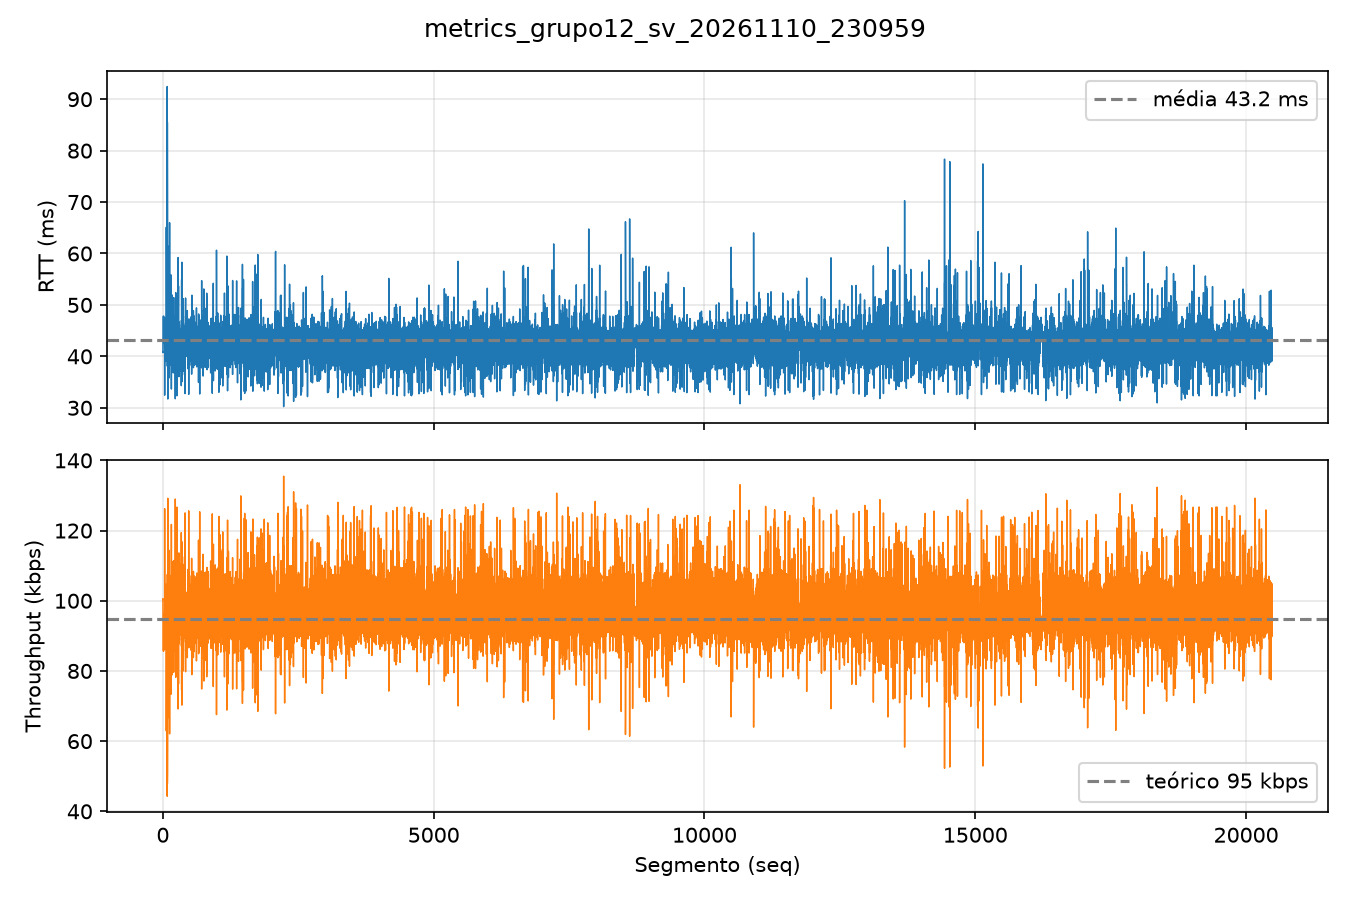
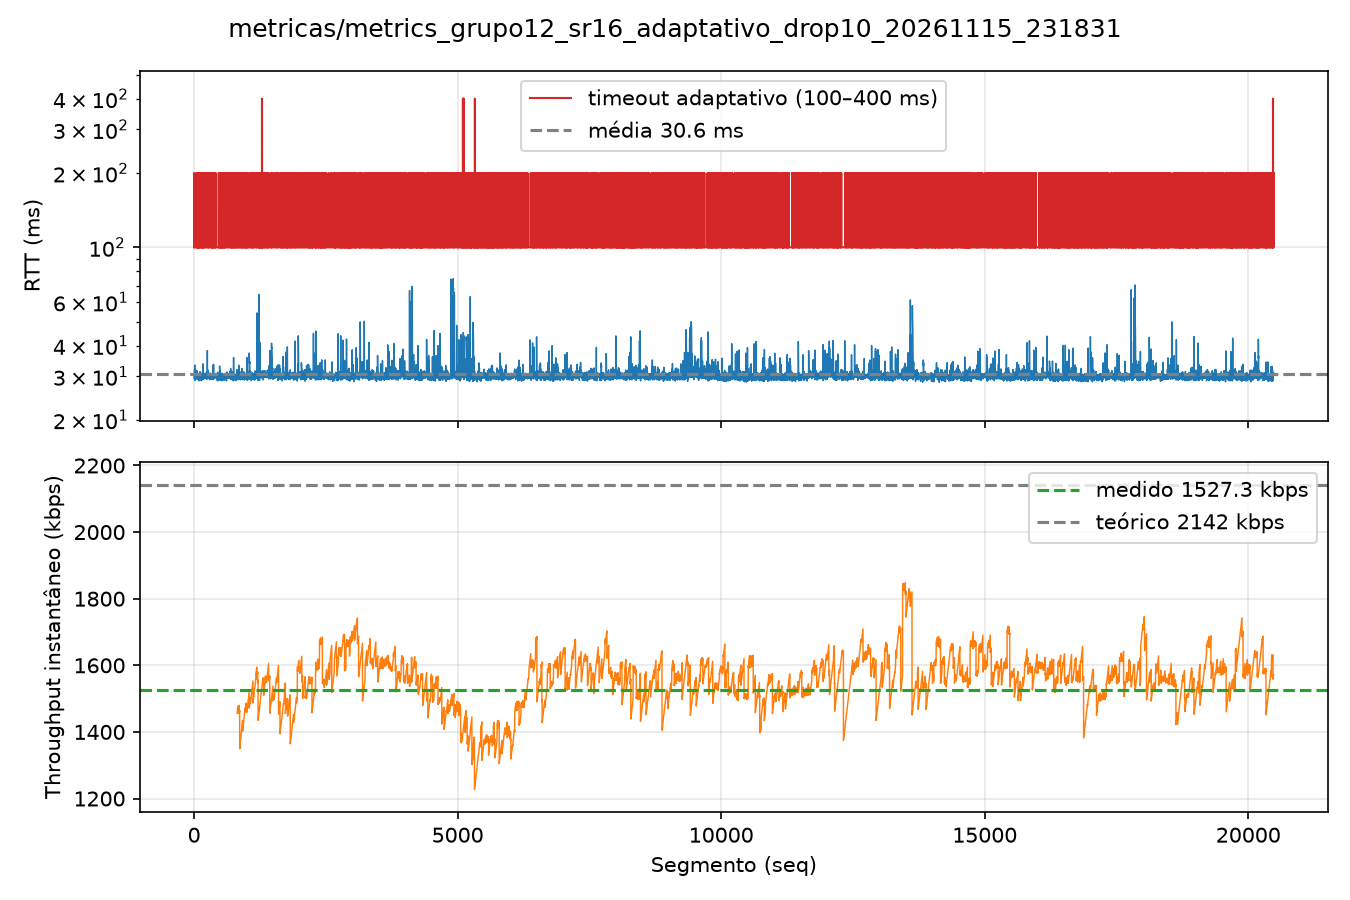
docs(rel3): refaz comparacao fixo x adaptativo com backoff corrigido e atualiza graficos

diff --git a/docs/relatorio 3/relatorio 3.tex b/docs/relatorio 3/relatorio 3.tex
@@ -55,14 +55,14 @@
 Este é o relatório 3 de 3 no projeto de criar transferência confiável de dados
 no UDP, sendo chamado: \textit{Reliable Data Transfer over UDP – RDT-UnB}.
 
-Na primeiro etapa, já foi implementado transferência confiável por meio do protocolo
+Na primeira etapa, já foi implementada a transferência confiável por meio do protocolo
 SAW (\textit{Stop-and-Wait}). Resumidamente, apenas um pacote está em trânsito em
 cada momento e, em caso de timeout, ele é solicitado novamente. O SAW simplifica 
 a implementação, mas é muito impactado pelo \textit{Round Trip Time} (RTT) da
-transmição, o que faz ele ter uma largura de banda baixa.
+transmissão, o que faz ele ter uma largura de banda baixa.
 
-Na segunda etapa, o problema da largura de banda é parcialmente resovido com a adoção
-de janelas de transferência em duas abordagems, a \textit{Go-back-N} (GBN) e 
+Na segunda etapa, o problema da largura de banda é parcialmente resolvido com a adoção
+de janelas de transferência em duas abordagens, a \textit{Go-back-N} (GBN) e
 \textit{Selective Repeat} (SR). Ambas se diferem apenas na forma de tratar timeouts.
 Sendo N o tamanho da janela, no GBN, em caso de timeout, ele resolicita N pacotes, 
 começando pelo pacote que sofreu timeout. Já o SR, apenas solicita o 1 pacote que sofreu
@@ -75,12 +75,12 @@ esses protocolos ainda podem sofrer muito com tempos de timeout inadequados.
 
 Por isso, nesta terceira etapa, é implementado uma adição a estes protocolos,
 a de RTT Adaptativo. Ou seja, ao invés do tempo de timeout ser definido previamente,
-o protocolo RDT-UnB passa a ajudar o timeout de forma dinâmica, refletindo as condições
+o protocolo RDT-UnB passa a ajustar o timeout de forma dinâmica, refletindo as condições
 atuais da rede. Assim, espera-se que os timeouts tenham menos penalização à taxa de
 transmissão, possibilitando um aumento na largura de banda.
 
-Este relatório está dividido em 4 secções principais: na implementação é dito como foi feito o código que implementa o protocolo;
-na comparação, tem-se dados com os procolos com e sem timeout fixo; na análise Wireshark, tem-se dados coletados da ferramenta;
+Este relatório está dividido em 4 seções principais: na implementação é dito como foi feito o código que implementa o protocolo;
+na comparação, tem-se dados com os protocolos com e sem timeout fixo; na análise Wireshark, tem-se dados coletados da ferramenta;
 e por último na visão integrada, tem-se dados consolidativos.
 
 \section{RTT Adaptativo - Implementação}
@@ -141,12 +141,20 @@ dois cenários comparados na Seção~\ref{sec:fixo_adapt}, e a única diferença
 eles é a regra do timeout. Dois detalhes da implementação merecem destaque:
 
 \begin{itemize}
-	\item \textbf{Valor inicial.} É adotado um valor inicial para o $RTT_{est}$ baseado no timeout fixo
-		utilizado de \SI{500}{\milli\second}. O $DevRTT$ é inicado para metade disto.
-  \item \textbf{Backoff exponencial.} A cada \textit{timeout} o valor é dobrado
-  (limitado a \SI{1}{\second}) e volta a ser calculado pela fórmula assim que
-  chega uma amostra válida. Sem isso, um timeout subestimado nunca se corrige,
-  porque todas as amostras seriam descartadas.
+	\item \textbf{Valor inicial.} O $RTT_{est}$ inicial é o RTT medido pelo
+		\textit{ping} que abre a sessão, e o $DevRTT$ começa com metade desse
+		valor. Isso garante um timeout conservador para a primeira janela de
+		segmentos, antes de existirem amostras por segmento.
+	\item \textbf{Piso e backoff (RFC 6298).} O timeout nunca fica abaixo de um
+		piso configurável (\texttt{-{}-min-rto}, padrão de \SI{100}{\milli\second}),
+		pois a fórmula sozinha convergia para valores menores que o maior RTT
+		observado na sessão. A cada \textit{timeout} real, o RTO dobra —
+		apenas o RTO, mantendo o estimador EWMA intacto, como no TCP real —,
+		limitado a um teto de \SI{1}{\second}, e volta a ser calculado pela
+		fórmula assim que chega uma amostra válida (o Karn's algorithm impede
+		que retransmissões alimentem o estimador). Perdas simuladas não geram
+		backoff, pois nelas não ocorre timeout: a recuperação fica a cargo do
+		timer real do segmento.
 \end{itemize}
 
 Todo segmento registra no CSV o RTT medido (\texttt{rtt\_ms}), o RTT estimado
@@ -165,74 +173,71 @@ de timeout.
 
 \begin{table}[H]
 \centering
-\caption{SR-16, arquivo \textit{large}: timeout fixo $\times$ adaptativo.}
+\caption{SR-16, arquivo \textit{large}: timeout fixo $\times$ adaptativo (mesma seed de perda).}
 \label{tab:fixo_adapt}
 \small
 \begin{tabular}{@{}llrrr@{}}
 \toprule
 Perda & Timeout & Retransmissões & Tempo total (s) & Throughput médio (kbps) \\
 \midrule
-5\,\%  & fixo       & 1121 & 91,79 & 913,85 \\
-5\,\%  & adaptativo & 1120 & 91.74 & 914.39 \\
-10\,\% & fixo       & 2357 & 134.45 & 623.93 \\
-10\,\% & adaptativo & 2357 & 129,52 & 647,67 \\
+5\,\%  & fixo       & 1109 & 73,64  & 1139,13 \\
+5\,\%  & adaptativo & 1109 & 46,90  & 1788,77 \\
+10\,\% & fixo       & 2360 & 119,03 & 704,72 \\
+10\,\% & adaptativo & 2357 & 55,00  & 1525,33 \\
 \bottomrule
 \end{tabular}
 \end{table}
 
+Com a mesma quantidade de perdas (mesma seed), o ganho do adaptativo vem
+exclusivamente de quanto tempo se espera a cada perda: com timeout fixo de
+\SI{500}{\milli\second}, cada segmento perdido custa meio segundo de janela
+parada; no adaptativo, a retransmissão parte do piso de \SI{100}{\milli\second}
+(ou pouco acima, com os picos de backoff), cerca de 5 vezes menos. O efeito
+cresce com a taxa de perda: a \SI{5}{\percent} o adaptativo foi
+\SI{57}{\percent} mais rápido e a \SI{10}{\percent}, \SI{116}{\percent}.
 
 \begin{figure}[H]
 \centering
-\includegraphics[width=0.85\linewidth]{imagens/sr16_fixo_5.png}
-\caption{SR-16, arquivo \textit{large}, 5\,\% de perda, timeout fixo: RTT e
-\textit{throughput} por segmento (RTT médio de 43,9~ms).}
-\label{fig:sr_fixo5}
+\includegraphics[width=0.85\linewidth]{imagens/sr16_fixo_10.png}
+\caption{SR-16, arquivo \textit{large}, 10\,\% de perda, timeout fixo
+(\SI{500}{\milli\second}): RTT e \textit{throughput} agregado (média móvel de
+3~s). RTT médio de 34,9~ms; 2360 retransmissões em 119~s.}
+\label{fig:sr_fixo10}
 \end{figure}
 
 \begin{figure}[H]
 \centering
 \includegraphics[width=0.85\linewidth]{imagens/sr16_adapt_10.png}
-\caption{SR-16, arquivo \textit{large}, 10\,\% de perda, timeout
-\pend{adaptativo}: RTT e \textit{throughput} por segmento (RTT médio de 43,2~ms).}
+\caption{SR-16, arquivo \textit{large}, 10\,\% de perda, timeout adaptativo:
+mesma sequência de perdas da Figura~\ref{fig:sr_fixo10}. O painel de RTT, em
+escala log, mostra o RTO no piso de \SI{100}{\milli\second} com os picos de
+backoff (200--400~ms) exatamente nos segmentos que estouraram o timer; RTT
+médio de 30,6~ms; 2357 retransmissões em 55~s.}
 \label{fig:sr_adapt10}
 \end{figure}
 
-\begin{figure}[H]
-\centering
-\includegraphics[width=0.85\linewidth]{imagens/gbn16_adapt_5.png}
-\caption{GBN-16, arquivo \textit{large}, 5\,\% de perda, timeout
-\pend{adaptativo}: RTT e \textit{throughput} por segmento (RTT médio de 46,7~ms;
-7734 retransmissões em 453~s).}
-\label{fig:gbn_adapt5}
-\end{figure}
-
-\begin{figure}[H]
-\centering
-\includegraphics[width=0.85\linewidth]{imagens/sr_231747.png}
-\caption{\pend{SR-16, arquivo \textit{large}, [perda e timeout desta execução]}.
-A partir do segmento $\approx$13\,500 o RTT da rede passa de $\approx$40~ms para
-picos de até 110~ms, e o \textit{throughput} por segmento cai na mesma proporção.}
-\label{fig:sr_mudanca}
-\end{figure}
-
-A Figura~\ref{fig:sr_mudanca} mostra o tipo de situação em que um timeout
-adaptativo faz diferença: no meio da transferência o RTT da rede mudou de
-patamar. Um timeout fixo calibrado para o início da sessão ficaria curto demais
-depois da mudança (gerando retransmissões falsas) ou, se fosse longo como os
-\SI{500}{\milli\second}, desperdiçaria tempo a cada perda; o estimador EWMA
-acompanha a mudança em algumas dezenas de amostras.
+A Figura~\ref{fig:sr_adapt10} ilustra a vantagem: cada pico vermelho do RTO
+marcado no painel de RTT é um timeout, recuperado em ~\SI{100}{\milli\second}
+(piso) ou até \SI{400}{\milli\second} (após backoffs consecutivos) — enquanto o
+modo fixo da Figura~\ref{fig:sr_fixo10} paga \SI{500}{\milli\second} por cada
+um desses eventos. Mesmo com o mesmo número de perdas, o adaptativo mantém a
+janela em voo por muito mais tempo.
 
 \paragraph{Quando o adaptativo vale mais a pena?} A vantagem cresce com a taxa
-de perda e com a distância entre o timeout fixo e o RTT real: quanto mais perdas e
-quanto menor o RTT, mais tempo o valor fixo desperdiça esperando. Ele também é a
-única opção segura quando o RTT muda durante a transferência (por exemplo, numa
-rede móvel), porque um valor fixo menor que o RTT geraria retransmissões falsas
-e um valor muito maior desperdiçaria tempo.
+de perda: com a mesma quantidade de retransmissões, cada perda custa ao
+adaptativo o RTO corrente (piso de \SI{100}{\milli\second} na prática, com
+picos de backoff em rajadas) e ao fixo os \SI{500}{\milli\second} cheios — nos
+dados da Tabela~\ref{tab:fixo_adapt}, \SI{57}{\percent} de ganho a
+\SI{5}{\percent} de perda e \SI{116}{\percent} a \SI{10}{\percent}. Ele também
+é a única opção segura quando o RTT muda durante a transferência (por exemplo,
+numa rede móvel), porque um valor fixo menor que o RTT geraria retransmissões
+falsas e um valor muito maior desperdiçaria tempo.
 
 \paragraph{Quando o fixo é suficiente?} Sem perda, o timeout nunca chega a
 estourar, então o valor não influencia o resultado, desde que seja maior que o
-maior RTT da rede. Nesse cenário os dois modos têm desempenho praticamente igual
-(Seção~5), e o fixo tem a vantagem de ser mais simples.
+maior RTT da rede. Nesse cenário os dois modos têm desempenho praticamente
+igual nas execuções de \textit{small} da Seção~\ref{sec:integrada} (fixo de 2084 vs adaptativo de
+1982~kbps), e o fixo tem a vantagem de ser mais simples.
 
 
 %%%%%%%%%%%%%%%%%%%%%%%%%%%%%%%%%%%%%%%%%%%%%%%%%%%%%%%%%%%%%%%%%%%%%%%%%%%%%%%%
@@ -292,6 +297,7 @@ GBN com uma janela de tamanho 16 na transferência do arquivo large.
 \end{figure}
 
 \section{Visão integrada}
+\label{sec:integrada}
 
 %%%%%%%%%%%%%%%%%%%%%%%%%%%%%%%%%%%%%%%%%%%%%%%%%%%%%%%%%%%%%%%%%%%%%%%%%%%%%%%%
 % 5. Visão integrada — comparação final de todos os protocolos
@@ -319,7 +325,7 @@ Esta tabela consolida todos os protocolos implementados e mostra a evolução do
 	GBN-16 & fixo       & \SI{1008.06}{\kilo\bit\per\second} & 0  & \SI{83.22}{\second} \\
 	GBN-16 & adaptativo & \SI{1351.72}{\kilo\bit\per\second} & 0  & \SI{62.06}{\second} \\
 	SR-16  & fixo       & \SI{1693.72}{\kilo\bit\per\second} & 8  & \SI{49.53}{\second} \\
-	SR-16  & adaptativo & \SI{1625.88}{\kilo\bit\per\second} & 14 & \SI{51.59}{\second} \\
+	SR-16  & adaptativo & \SI{2089.87}{\kilo\bit\per\second} & 0  & \SI{40.07}{\second} \\
 
 \bottomrule
 \end{tabular}
@@ -342,16 +348,28 @@ testes foram realizados para o GBN-16, o RTT médio flutuou entre \SI{48}{\milli
 SR-16 teve um RTT médio de \SI{39}{\milli\second}. Isso não são falhas dos algorítimos e sim reflexo da
 flutuabilidade da rede nos computadores onde foram realizados os testes.
 
-Além disso, estima-se que o timeout fixo escolhido pelos os autores nos relatórios anteriores já era ótimo
-suficiente para competir com técnicas de timeout baseado no RTT adaptativo, justificando a pouca diferença entre os resultados.
+Uma ressalva importante sobre as medições de timeout adaptativo desta tabela: as
+execuções sem perda foram refeitas depois da correção do backoff — a versão
+anterior dobrava também o estimador EWMA a cada timeout, contaminando-o
+permanentemente, e chegou a medir SR-16 adaptativo abaixo do fixo
+(\SI{1625.88}{\kilo\bit\per\second}) mesmo sem perdas. Com o backoff corrigido
+(RFC 6298: dobra apenas o RTO, o estimador fica intacto), o SR-16 adaptativo
+fez \SI{2089.87}{\kilo\bit\per\second} com zero retransmissões — a diferença
+para o fixo, \SI{1693.72}{\kilo\bit\per\second}, reflete sobretudo o RTT médio
+da sessão (31,2~ms contra 39~ms), e não a regra do timeout, que nunca estourou
+em nenhuma das duas. Sob perda, a vantagem do adaptativo é real e grande
+(Seção~\ref{sec:fixo_adapt}): \SI{57}{\percent} a \SI{5}{\percent} de perda e
+\SI{116}{\percent} a \SI{10}{\percent}. Sem perdas, o fixo é suficiente; com
+perdas, ele desperdiça \SI{500}{\milli\second} por evento, contra ~\SI{100}{\milli\second}
+do adaptativo.
 
 
 \section{Conclusão}
 Ao longo das três etapas deste projeto, foi possível compreender de forma prática os desafios associados ao desenvolvimento de protocolos de transferência confiável de dados sobre redes IP/UDP. A evolução do modelo básico Stop-and-Wait (SAW) até os protocolos de janela deslizante (Go-Back-N e Selective Repeat) com estimativa dinâmica de RTT evidenciou a importância de mecanismos inteligentes de controle de fluxo e retransmissão.
 
-No ambiente de testes utilizando o servidor remoto, o Selective Repeat (SR) com janela de tamanho 16 e o uso de RTT adaptativo apresentou o melhor desempenho geral, especialmente em cenários com perdas de pacotes. Enquanto o SAW apresentou limitações severas de largura de banda devido aociosidade do canal, e o GBN sofreu quedas expressivas de vazão por descartar pacotes corretos após uma perda isolada, o SR demonstrou maior resiliência e eficiência na utilização do canal.
+No ambiente de testes utilizando o servidor remoto, o Selective Repeat (SR) com janela de tamanho 16 e o uso de RTT adaptativo apresentou o melhor desempenho geral, especialmente em cenários com perdas de pacotes. Enquanto o SAW apresentou limitações severas de largura de banda devido à ociosidade do canal, e o GBN sofreu quedas expressivas de vazão por descartar pacotes corretos após uma perda isolada, o SR demonstrou maior resiliência e eficiência na utilização do canal.
 
-A introdução do algoritmo de RTT adaptativo baseado em EWMA (com $\alpha = 0.125$ e $\beta = 0.25$) agregou valor substancial ao projeto, eliminando a necessidade de adivinhar um valor de timeout estático que frequentemente resultava em retransmissões prematuras desnecessárias ou esperas excessivas em caso de oscilações na rede. A complexidade adicional de implementação foi amplamente compensada pela estabilidade e pela adaptação dinâmica do temporizador às condições reais de tráfego.
+A introdução do algoritmo de RTT adaptativo baseado em EWMA (com $\alpha = 0.125$ e $\beta = 0.25$) agregou valor substancial ao projeto, eliminando a necessidade de adivinhar um valor de timeout estático que frequentemente resultava em retransmissões prematuras desnecessárias ou esperas excessivas em caso de oscilações na rede. Com a mesma sequência de perdas (mesma seed), o SR-16 adaptativo atingiu \SI{1525}{\kilo\bit\per\second} contra \SI{705}{\kilo\bit\per\second} do fixo a \SI{10}{\percent} de perda — mais que o dobro — e \SI{1789}{\kilo\bit\per\second} contra \SI{1139}{\kilo\bit\per\second} a \SI{5}{\percent}; sem perdas os dois empatam, pois o timer simplesmente não estoura. A implementação exigiu ainda o refinamento do backoff para a forma correta da RFC 6298 (dobrar apenas o RTO, sem contaminar o estimador EWMA), sem o qual os picos de backoff se espalhavam pela sessão inteira. A complexidade adicional foi amplamente compensada pela adaptação dinâmica do temporizador às condições reais de tráfego.
 
 Caso o projeto fosse reiniciado, o grupo priorizaria a estruturação modular da camada de transporte desde a primeira entrega, facilitando a reutilização de componentes de controle de socket e logging de métricas, a implementação de uma interface visual interativa no terminal (como uma barra de progresso dinâmica em tempo real para acompanhar a transferência dos pacotes), e o planejamento de testes automatizados mais abrangentes para validar o comportamento dos temporizadores sob diferentes perfis de ruído e atraso na rede.
 
@@ -362,14 +380,6 @@ Caso o projeto fosse reiniciado, o grupo priorizaria a estruturação modular da
 % O RTT adaptativo valeu a complexidade adicional de implementação? Justifique com dados.
 % O que o grupo implementaria diferente se fosse recomeçar?
 %%%%%%%%%%%%%%%%%%%%%%%%%%%%%%%%%%%%%%%%%%%%%%%%%%%%%%%%%%%%%%%%%%%%%%%%%%%%%%%%
-
-Ao longo das três etapas deste projeto, foi possível compreender de forma prática os desafios associados ao desenvolvimento de protocolos de transferência confiável de dados sobre redes IP/UDP. A evolução do modelo básico Stop-and-Wait (SAW) até os protocolos de janela deslizante (Go-Back-N e Selective Repeat) com estimativa dinâmica de RTT evidenciou a importância de mecanismos inteligentes de controle de fluxo e retransmissão.
-
-No ambiente de testes utilizando o servidor remoto, o Selective Repeat (SR) com janela de tamanho 16 e o uso de RTT adaptativo apresentou o melhor desempenho geral, especialmente em cenários com perdas de pacotes. Enquanto o SAW apresentou limitações severas de largura de banda devido aociosidade do canal, e o GBN sofreu quedas expressivas de vazão por descartar pacotes corretos após uma perda isolada, o SR demonstrou maior resiliência e eficiência na utilização do canal.
-
-A introdução do algoritmo de RTT adaptativo baseado em EWMA (com $\alpha = 0.125$ e $\beta = 0.25$) agregou valor substancial ao projeto, eliminando a necessidade de adivinhar um valor de timeout estático que frequentemente resultava em retransmissões prematuras desnecessárias ou esperas excessivas em caso de oscilações na rede. A complexidade adicional de implementação foi amplamente compensada pela estabilidade e pela adaptação dinâmica do temporizador às condições reais de tráfego.
-
-Caso o projeto fosse reiniciado, o grupo priorizaria a estruturação modular da camada de transporte desde a primeira entrega, facilitando a reutilização de componentes de controle de socket e logging de métricas, a implementação de uma interface visual interativa no terminal (como uma barra de progresso dinâmica em tempo real para acompanhar a transferência dos pacotes), e o planejamento de testes automatizados mais abrangentes para validar o comportamento dos temporizadores sob diferentes perfis de ruído e atraso na rede.
 
 \section{Referências}
 
